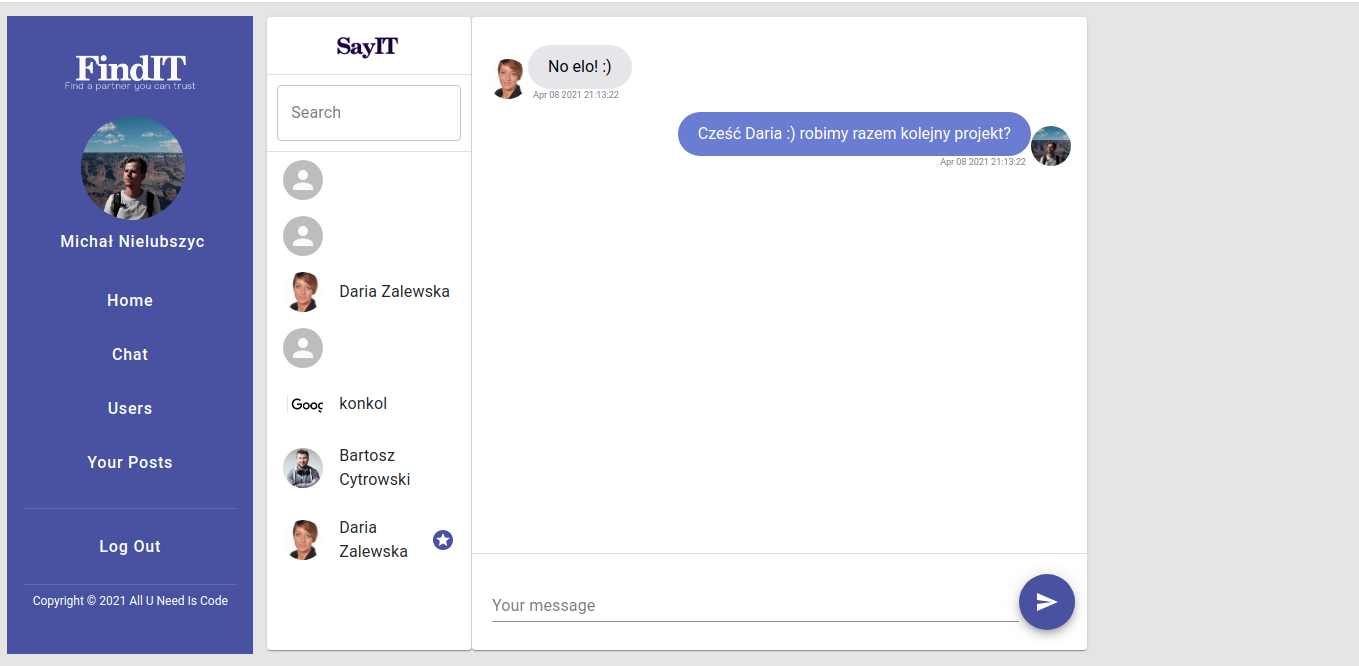
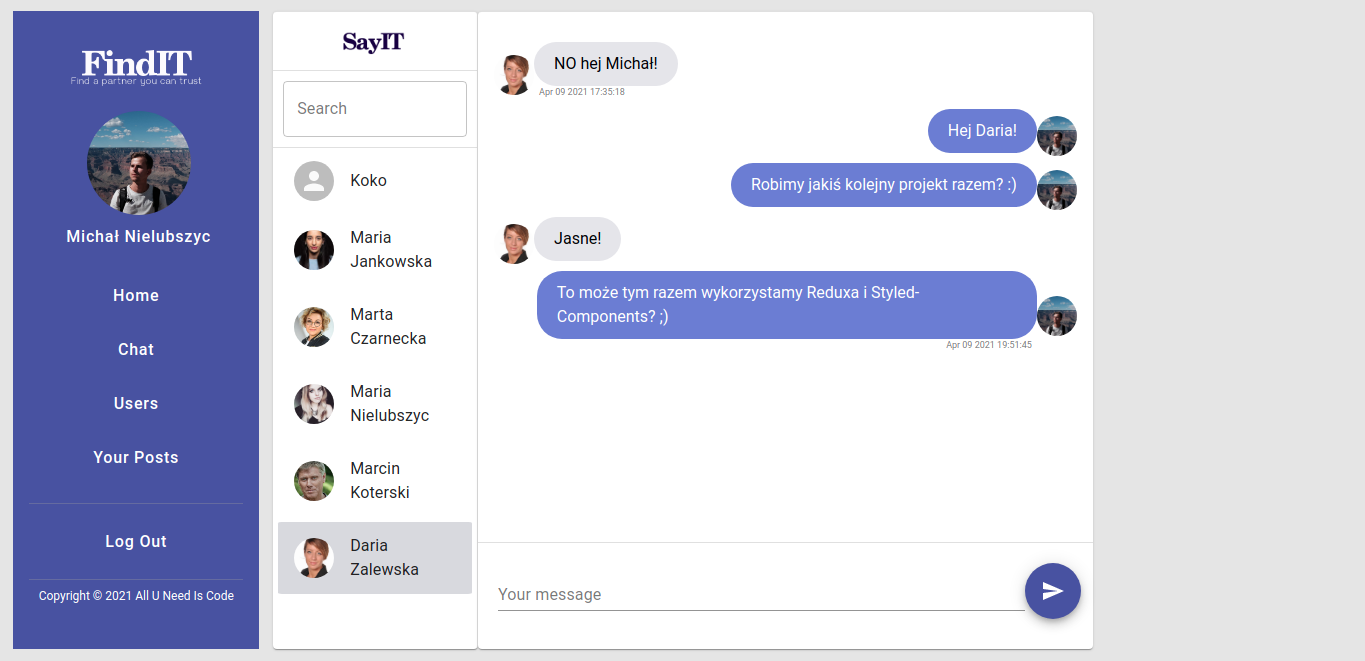
readme completed

diff --git a/README.md b/README.md
@@ -21,28 +21,33 @@ What you can do using FindIT app:
     - create your account using Firebase Authentication
     - fill our wizard form survey with information like: your name, what's your aim (to join a project etc.), experience, technologies, location, github & linkedIn profiles, your IT projects and section about you.
     - pick your avatar
-    - then you can edit your data on your profile page 
+    - then you can edit your data on your profile page
 
 <div display="flex">
 <img alt="survey1 photo" src="./src/photos/readme/survey0.png" width="80%">
 <img alt="survey2 photo" src="./src/photos/readme/survey1.png" width="80%">
 </div>
 
-2. Create posts
+
+2. Create posts and react on other users' posts
     - you can create posts that will be visable to all users
+    - then you can go to Your Posts section to see all posts created by you and delete the ones you no longer want to be on the main page
     - you can comment and react with likes on post created by other users
 
 <img alt="main1 photo" src="./src/photos/readme/main1.png" width="80%">
 
 3. Chat with other users
-    - you can search for user you'd like to text on the chat page
+    - on the chat page you can search for user you'd like to text and start a conversation
     - you can also go to chat with a selected user by clicking message button on profile page
+    - when you no longer want a conversation with a particular user to be in the list on the left you can delete it
 
 <img alt="chat1 photo" src="./src/photos/readme/chat.png" width="80%">
 
 4. Look for other users and check their profile pages
     - scroll the users page to find users you'd like to get in touch with
-    - go to their profile pages to learn more about them
+    - go to their profile pages to learn more about them (their skills, projects, a few words of description etc.)
+    - search for users by their name
+    - or search for users by their skills, for example you can look for a person who knows Swift
 
 <div display="flex">
 <img alt="profile1 photo" src="./src/photos/readme/profile1.png" width="80%">
